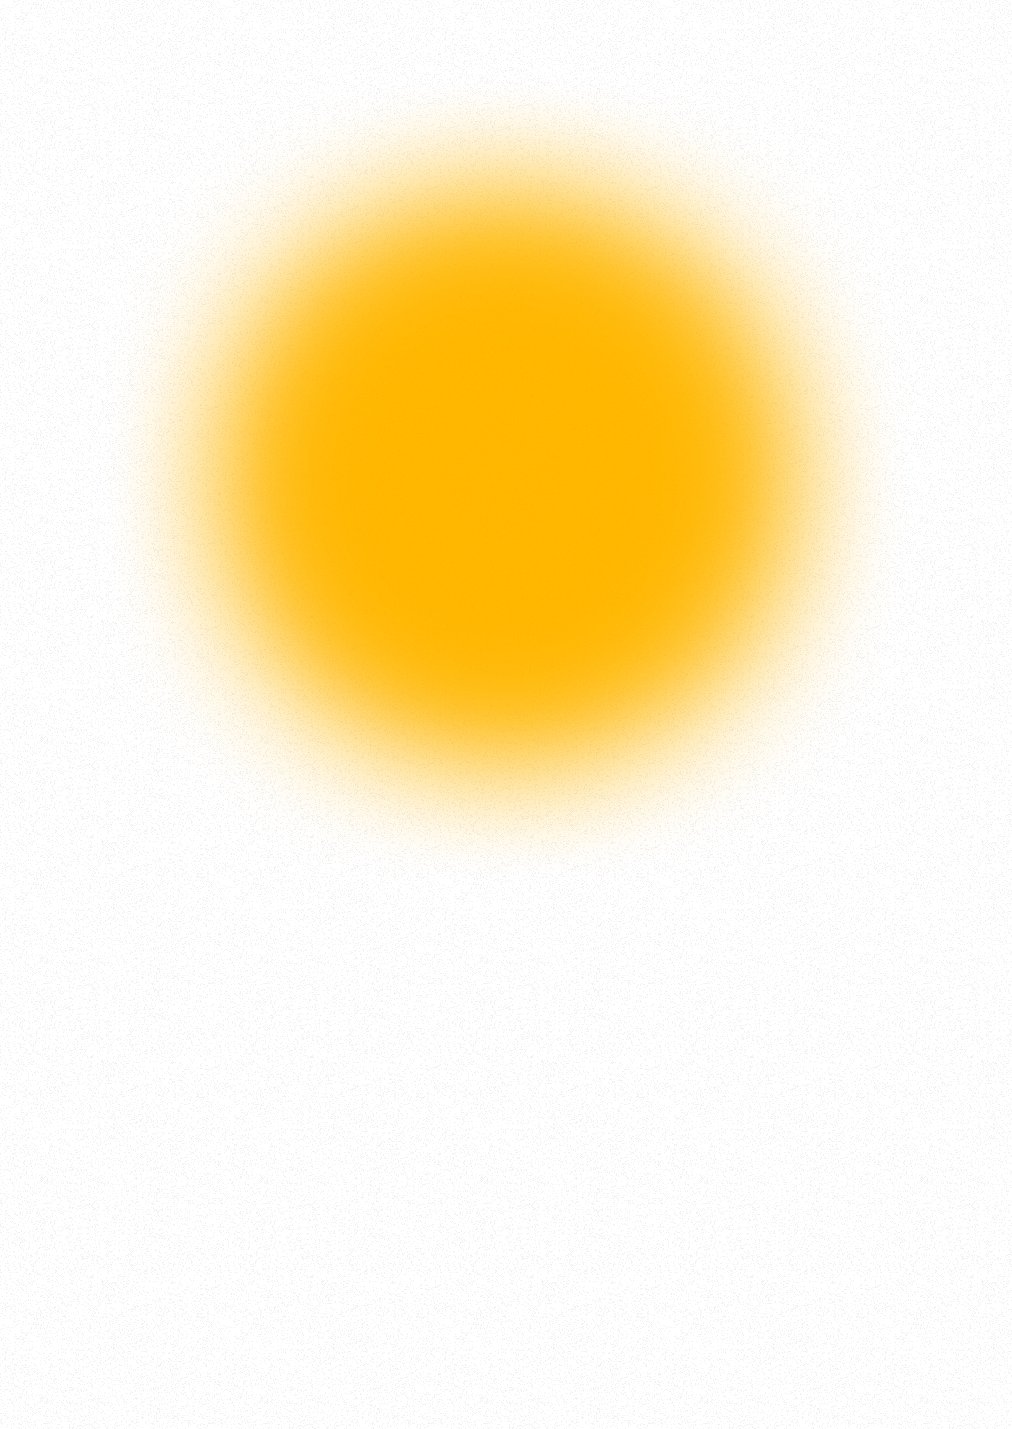
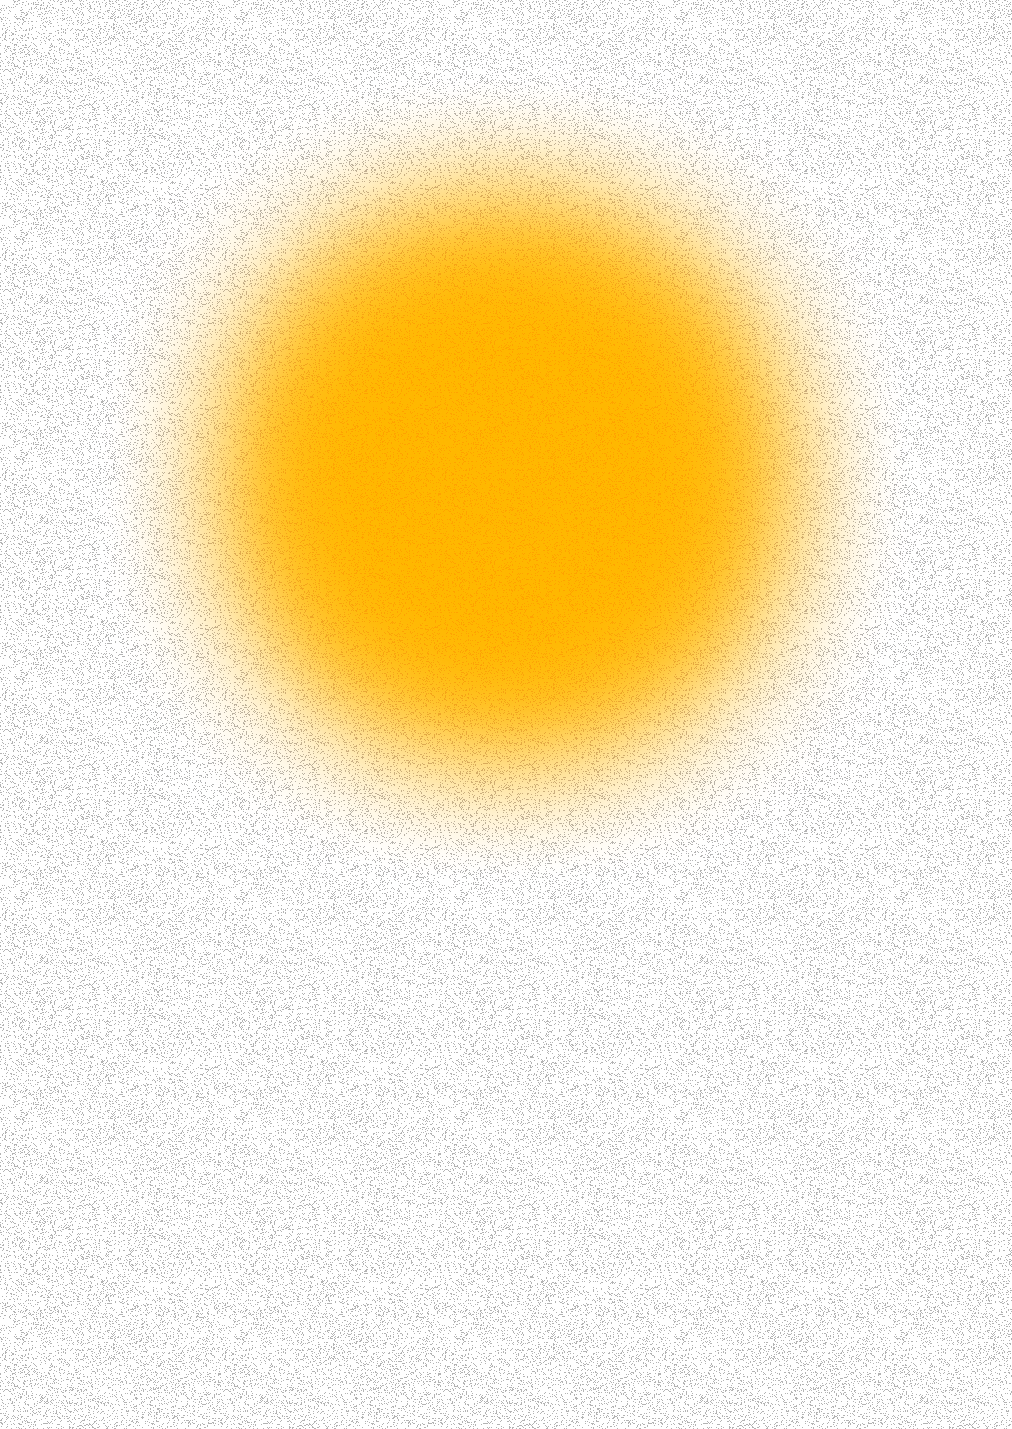
style: add visual code for clean site

Changed region(s): [[0.0, 0.0, 1.0, 1.0]]

diff --git a/cv.html b/cv.html
@@ -21,77 +21,70 @@
             </div>
         </header>
 
-        <section class='cv-colums'>
-            <div class='contacts'>
-                <div class='photo-prof'>
-                    <img src="img/avatar-cv.png" alt='avatar-profile'>
-                </div>
-                <div class='info'>
-                    <h1>SOKOLOVA VERONIKA</h1>
-                    <p>+375 (33) 366-04-65 <br>
-                       <a href="#1">dark</a><br>
-                       Minsk<br><br>
-                       <a href="#1">dark</a><br>
-                       <a href="#1">dark</a>
-                    </p>
-                </div>
-            </div>
-
-            <div class='info-table'>
-                
-                <div class="info-row">
-                    <dt class="info-title"><h2>About me</h2></dt>
-                        <dd class="info-desc">smart fresh cool and #swag</dd>
-                </div>
-
-                <div class="info-row">
-                    <dt class="info-title"><h2>Experience</h2></dt>
-                        <dd class="info-desc">BNTU (programmer-technician) may 2024 - now</dd>
-                </div>
-
-                <div class="info-row">
-                    <dt class="info-title"><h2>Education</h2>Education</dt>
-                        <dd class="info-desc">College NGAEK 
-                            (programmer-technician)
-                            2020 - 2024
-                            
-                            University BNTU
-                            (Software Engineer)
-                            2026 - now
-                            
-                            Rolling Scopes Academy
-                            2026 - now</dd>
-                </div>
-
-                <div class="info-row">
-                    <dt class="info-title"><h2>Languages</h2></dt>
-                        <dd class="info-desc">Russian (native)
-                            English (B1)</dd>
-                </div>
-
-                <div class="info-row">
-                    <dt class="info-title"><h2>Ability</h2></dt>
-                        <dd class="info-desc">soft skills 
-                            HTML
-                            CSS
-                            Git
-                            Figma
-                            SQL
-                        </dd>
-
-                            <dd class="info-desc">hard skills
-                                adaptability
-                                teamwork
-                                stress tolerance
-                        </dd>
-                </div>
-            </div>
-                
-        </section>
+       
+    <div class="cv-layout">
+     
+      <aside class="contacts">
+        <div class="photo-prof">
+          <img src="img/avatar-cv-light.png" alt="avatar-profile">
         </div>
-    </main>
-    <footer>
+        <div class="info">
+          <h1>SOKOLOVA VERONIKA</h1>
+          <p>+375 (33) 366-04-65<br>
+             <a href="#1">kebixnw@gmail.com</a><br>
+             Minsk<br><br>
+             TG <a href="#1">@qhfdet</a><br>
+             gH  <a href="#1">@kebixnw</a>
+          </p>
+        </div>
+      </aside>
+
+      <div class="divider"></div>
+     
+      <section class="info-table">
+            <div class="info-row">
+                <h2 class="info-title">About me</h2>
+                <p class="info-desc">smart fresh cool and #swag</p>
+            </div>
+
+            <div class="info-row">
+                <h2 class="info-title">Experience</h2>
+                <p class="info-desc"><a href="#1" class="info-desc">University BNTU</a><br><a href="#1">(programmer-technician)</a><br> may 2024 - now</p>
+            </div>
+
+            <div class="info-row">
+                <h2 class="info-title">Education</h2>
+                <p class="info-desc">
+                    <a href="#1">College NGAEK</a><br>(programmer-technician) <br>2020 – 2024<br><br>
+                    <a href="#1">University BNTU </a><br>(Software Engineer) <br>2026 – now<br><br>
+                    <a href="#1">Rolling Scopes Academy</a> <br>2026 – now
+                </p>
+            </div>
+
+            <div class="info-row">
+                <h2 class="info-title">Languages</h2>
+                <p class="info-desc">Russian (native)<br>English (B1)</p>
+            </div>
+
+            <div class="info-row">
+                <h2 class="info-title">Ability</h2>
+                <div class="info-desc skills">
+                    <div class="skills-col">
+                        <p>Hard skills:</p>
+                        <p>HTML<br>CSS<br>Git<br>Figma<br>SQL</p>
+                    </div>
+                    <div class="skills-col">
+                        <p>Soft skills:</p>
+                        <p>adaptability<br>teamwork<br>stress tolerance</p>
+                    </div>
+                </div>
+            </div>
+     </section>
+     </div>
+
+     <footer>
             <p>© 2026</p>
-        </footer>
+    </footer>
+     </main>
 </body>
 </html>

diff --git a/style.css b/style.css
@@ -13,6 +13,7 @@ main{
     height: auto;
     margin: 0 auto;
 
+
 }
 .back-photo{
     background-image: url('img/bb.png');
@@ -20,8 +21,6 @@ main{
 }
 
 header{
-    position: flex;
-    top: 0;
     width: 60%;
     box-sizing: border-box;
     margin-left: auto; 
@@ -32,21 +31,50 @@ header{
     padding: 10px 35px; 
 
     font-size: small;
-    color: #8d8d8d;
+    font-weight:bold;
+    color: #a7a5a4;
 }
 header img {
     vertical-align: middle;
     margin-right: 5px;     
 }
 
-footer{
+.cv-layout {
+  max-width: 80%;
+  margin: 0 auto;
+  margin-top: 10px;
 
+  display: grid;
+  grid-template-columns: 40% 2px 60%;
+  gap: 20px;
+  box-sizing: border-box;
+  align-items: start;   
 }
+
+.info-row {
+  display: grid;
+  grid-template-columns: 150px 1fr;   
+  gap: 20px;
+  align-items: start;   
+  margin-bottom: 100px;
+}
+.skills {
+  display: grid;
+  grid-template-columns: 1fr 1fr;
+  gap: 20px;
+}
+
+.skills-col p {
+  margin: 8px 0 0 0;
+}
+
+
 
 
 /*fonts*/
 p{
     font-weight: 100;
+    color: rgb(47, 47, 47);
 }
 h1,h2{
     font-weight: 900;
@@ -60,5 +88,20 @@ h1,h2{
 a{
     text-decoration: none;
     color: inherit;   
+}
+           
+.info-title {
+  margin: 0;
+  line-height: 1;
+}
+
+.info-desc {
+  margin: 0;
+  line-height: 1.4;
+}
+.divider {
+  background: black;
+  width: 2px;
+  height: 90%;            
 }
 
